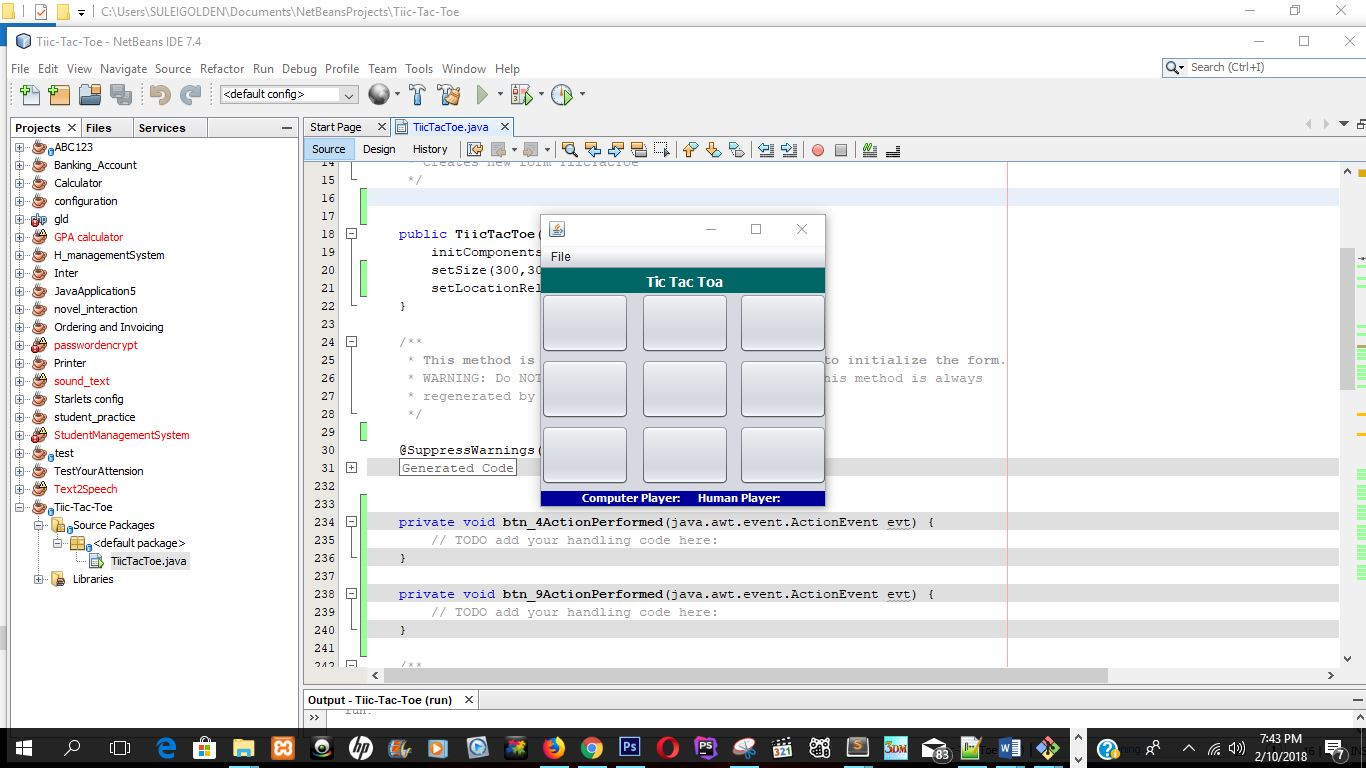
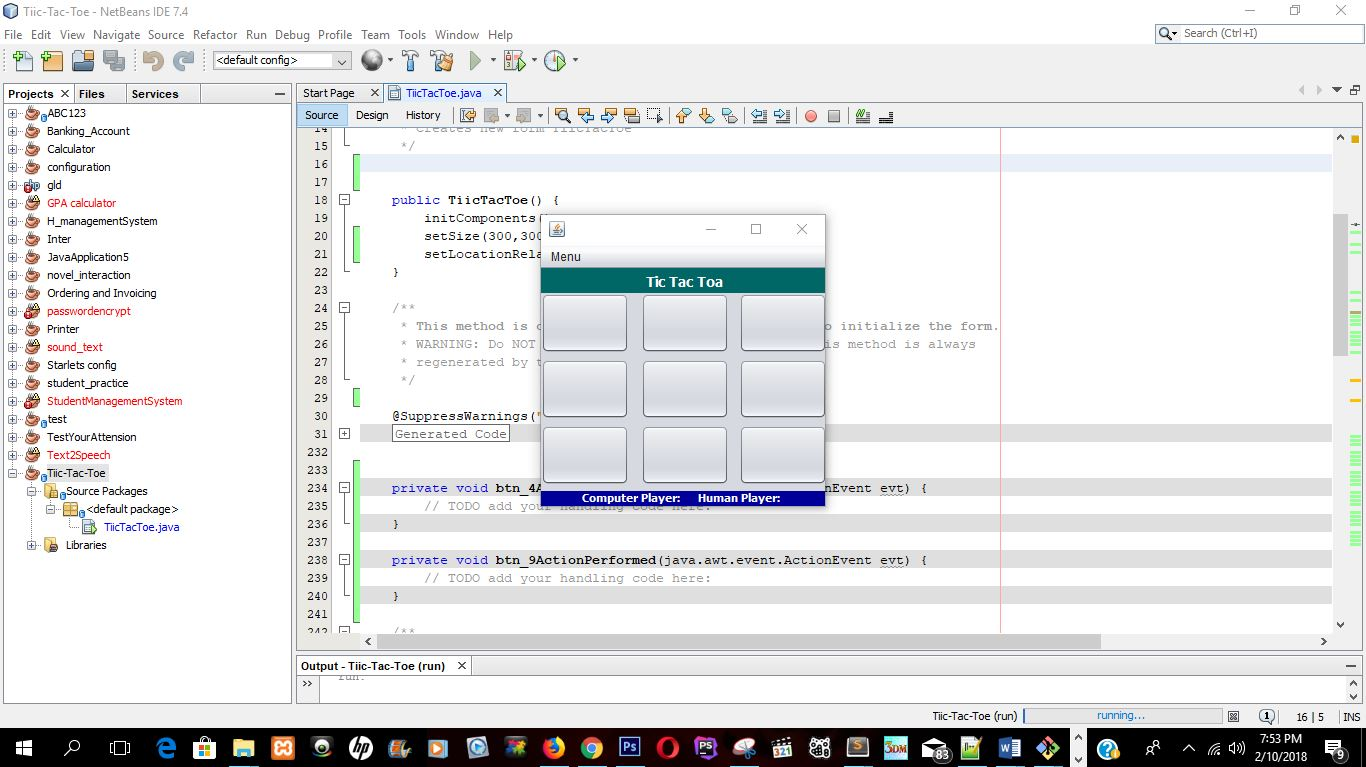
Initial 3X3 Board design complete with JFram Form. Uer can change to 4X4 Board and 5X5 Board or reset or exit game, by clicking on Menu

diff --git a/src/TiicTacToe.java b/src/TiicTacToe.java
@@ -198,7 +198,7 @@ public class TiicTacToe extends javax.swing.JFrame {
 
         getContentPane().add(jPanel1, java.awt.BorderLayout.CENTER);
 
-        jMenu1.setText("File");
+        jMenu1.setText("Menu");
 
         jMenuItem1.setFont(new java.awt.Font("Segoe UI", 1, 12)); // NOI18N
         jMenuItem1.setForeground(new java.awt.Color(0, 0, 153));
